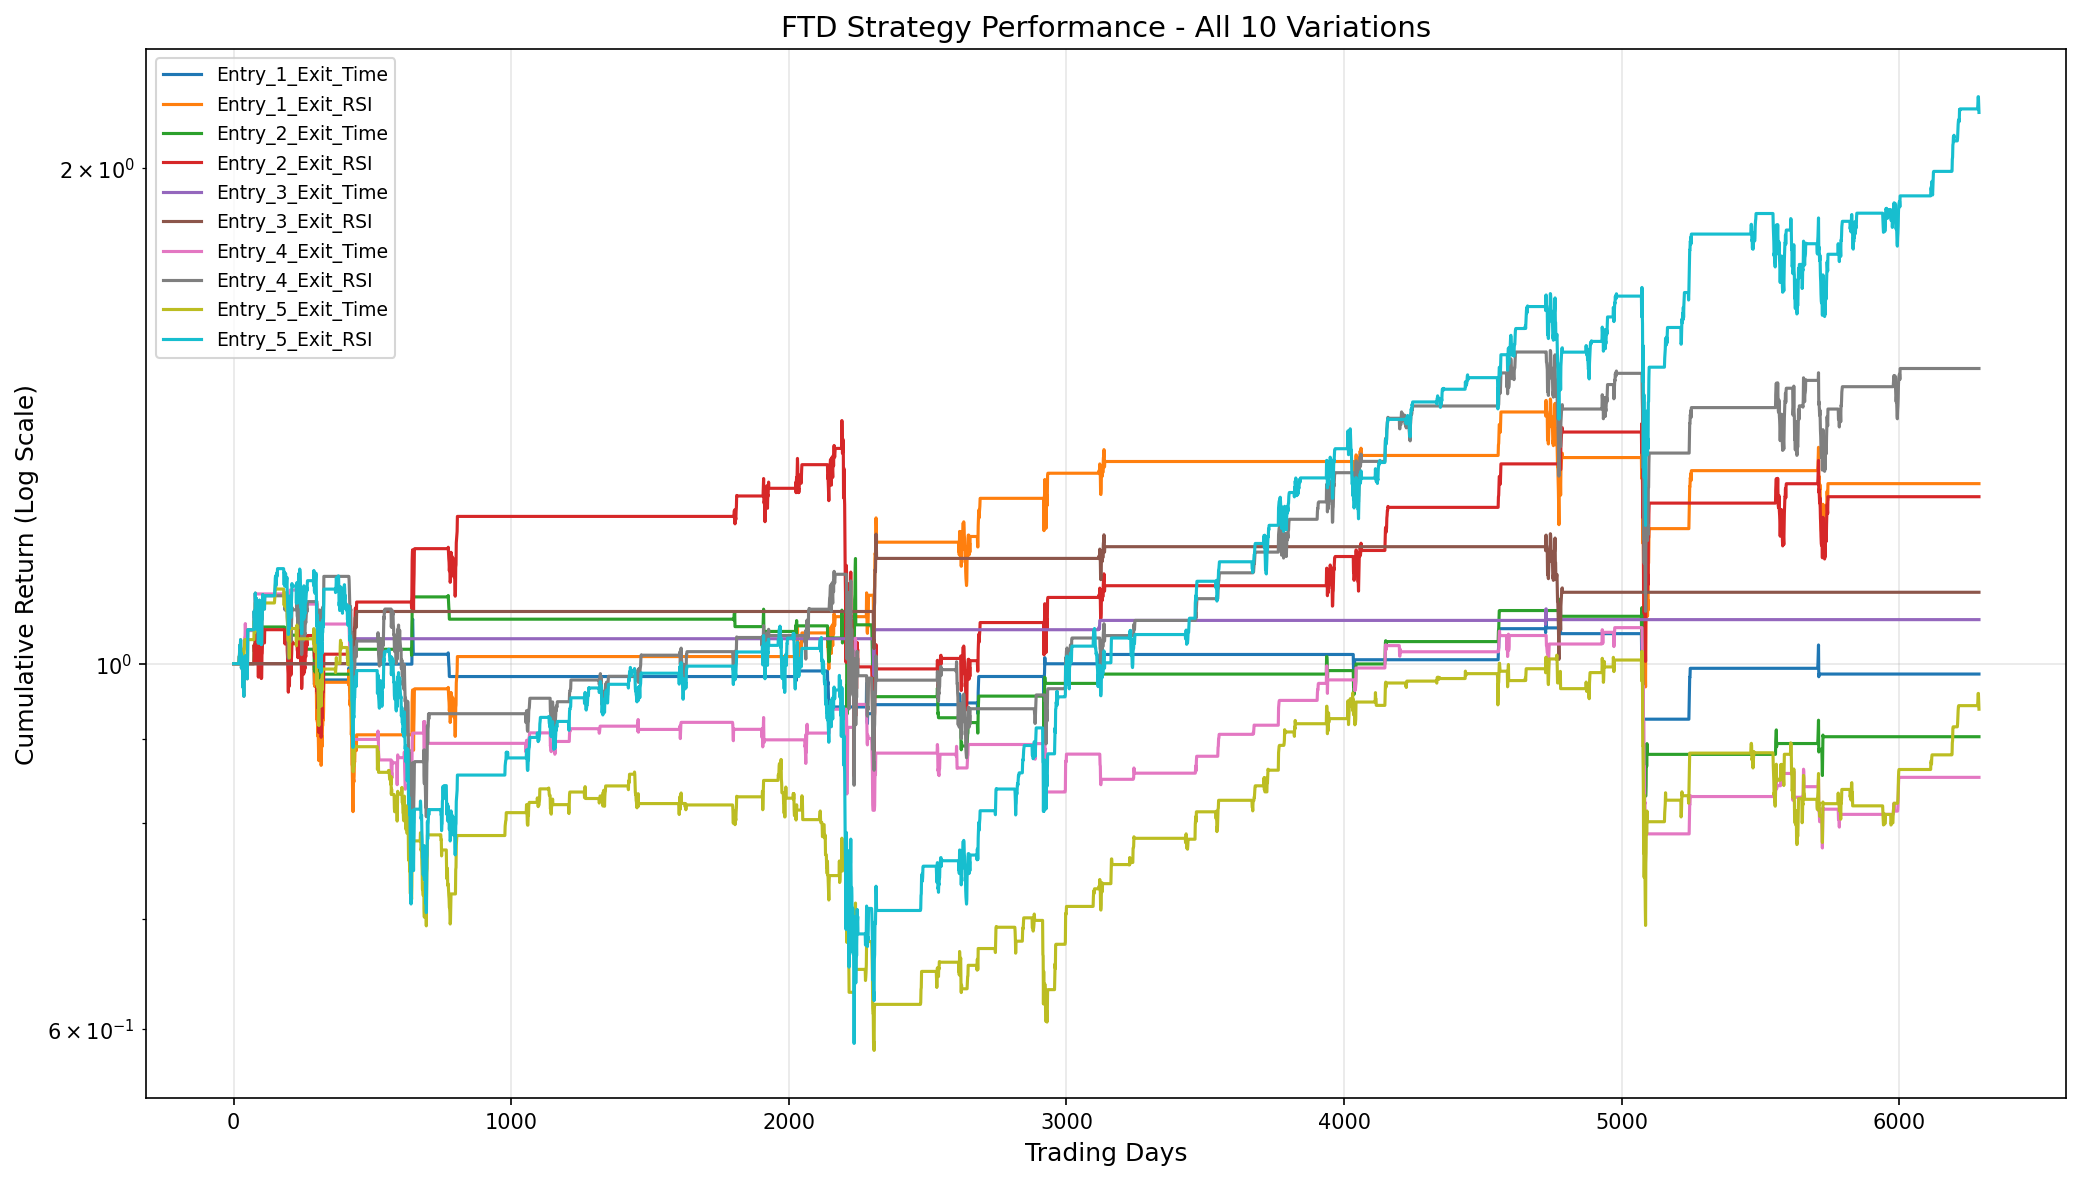
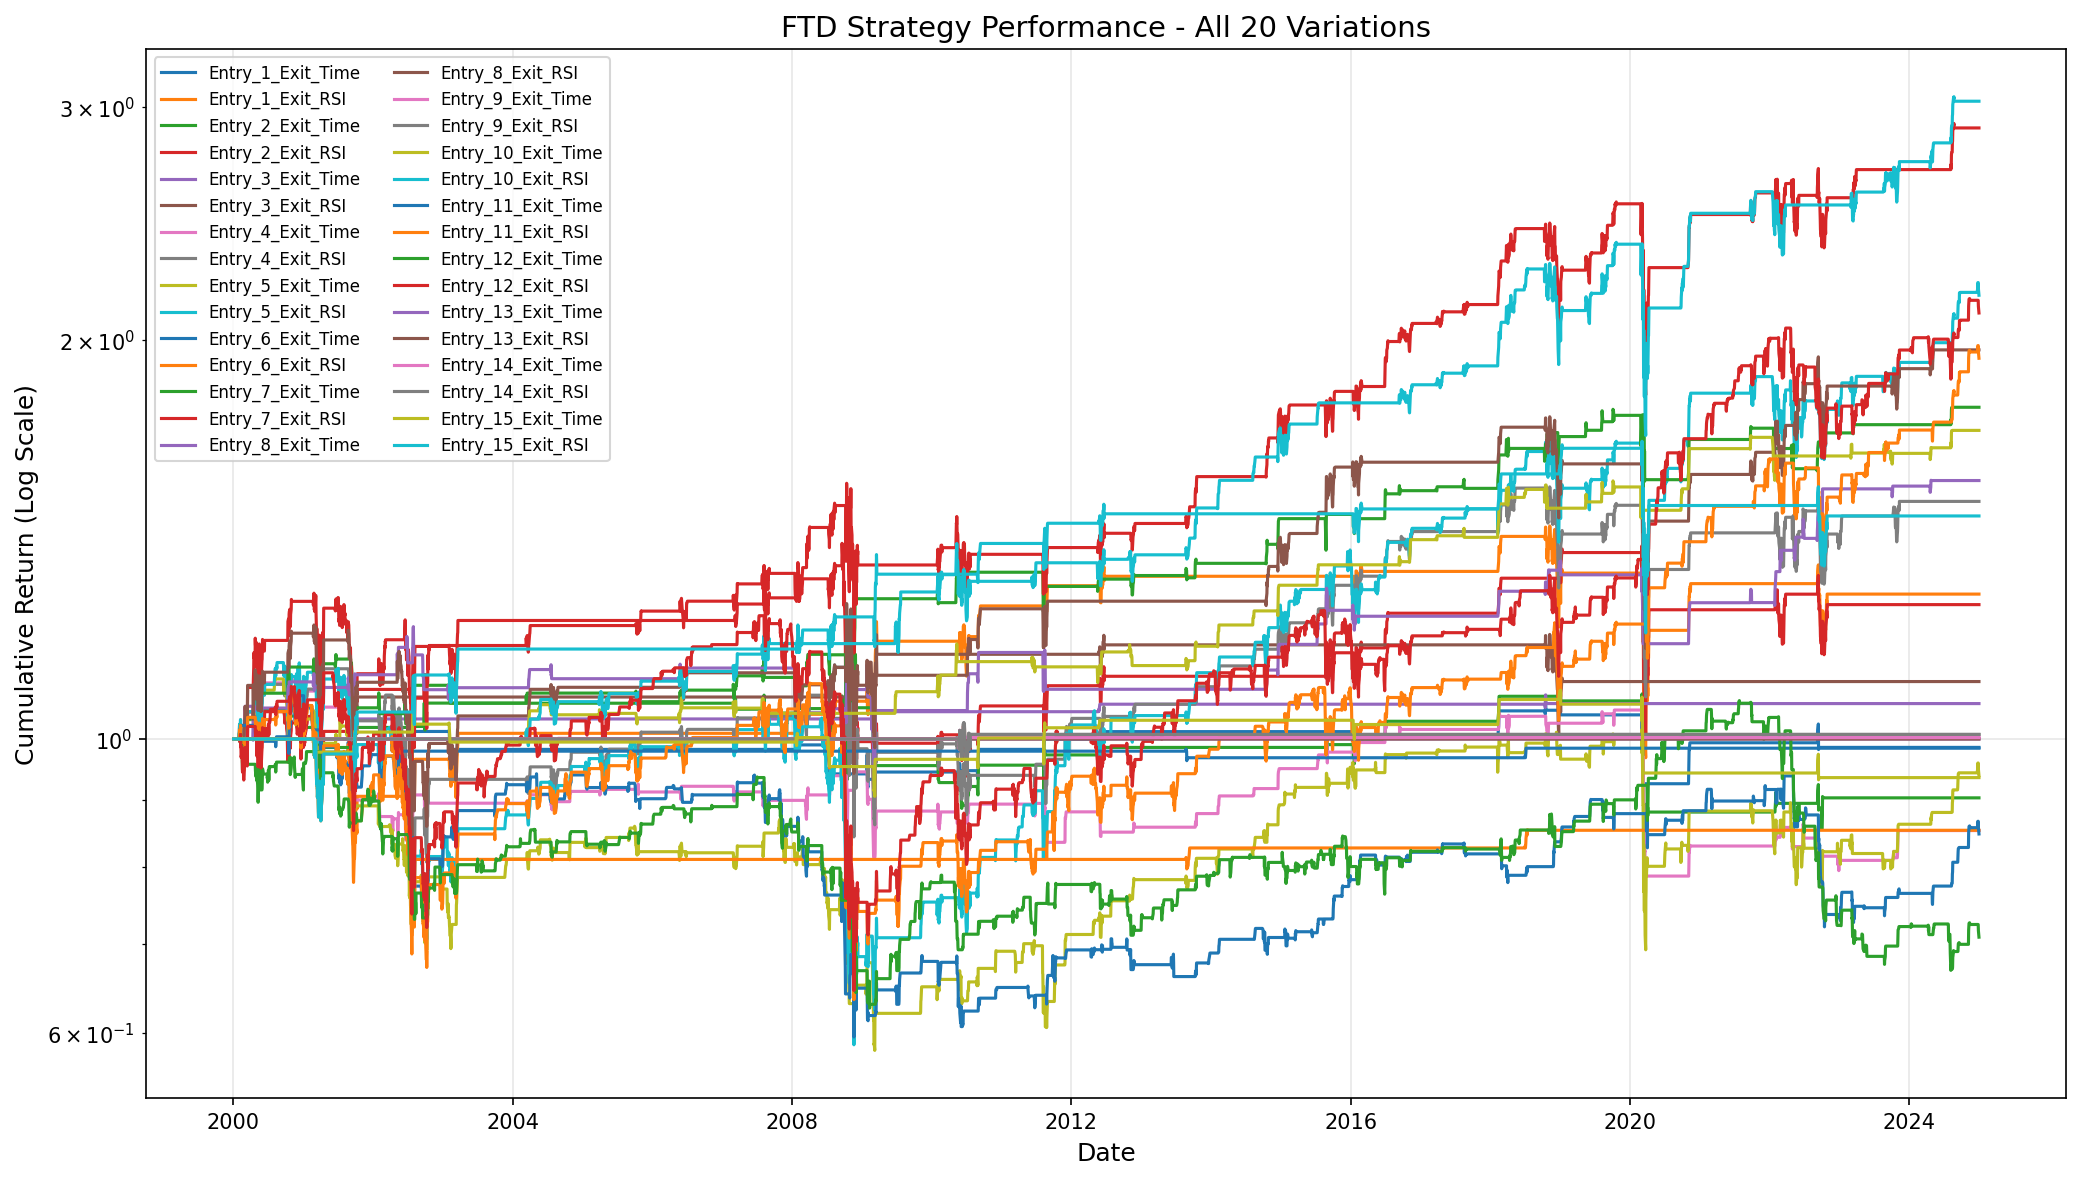
Add FTD strategy with 20 variations and Excel output
- Updated plot to use date x-axis instead of trade count
- Added 10 additional social media-based entry strategies:
  * MA Crossover, Volume Spike, Gap Up, Support Bounce
  * Trend Confirmation, Momentum, Pullback, Swing High Break
  * VWAP Support, Wide Bar
- Total 20 strategy combinations tested on SPY (2000-2024)
- Best performers: Entry_10_Exit_RSI (202.91%, PF 6.41) and Entry_7_Exit_RSI (189.16%, PF 3.16)
- Saved performance table to ftd_table.xlsx with Perf and Rules sheets
- Formatted Excel with styled headers and borders

diff --git a/ftd_strategy.py b/ftd_strategy.py
@@ -4,7 +4,7 @@ FTD (Follow-Through Day) Trading Strategy
 This strategy identifies oversold conditions using RSI, then identifies subsequent
 FTD using high IBS (Intra-Bar Strength) value and high daily return (>1%).
 
-5 Entry Variations:
+Original 5 Entry Variations:
 1. RSI < 30 + FTD (IBS > 0.5 AND daily return > 1%)
 2. RSI < 35 + FTD (IBS > 0.7 AND daily return > 1.5%)
 3. RSI < 25 + FTD (IBS > 0.5 AND daily return > 1%)
@@ -15,7 +15,19 @@ FTD using high IBS (Intra-Bar Strength) value and high daily return (>1%).
 1. Time-based: Hold for N bars (e.g., 5 bars)
 2. RSI threshold: Exit when RSI > 65
 
-Total: 10 strategy variations (5 entries x 2 exits)
+Additional 10 Social Media Strategies (paired with FTD concept):
+6. MA Crossover: Price crosses above 50-day MA after oversold RSI
+7. Volume Spike: Volume > 1.5x average after RSI oversold
+8. Gap Up: Gap up > 0.5% after RSI oversold
+9. Support Bounce: Price bounces from daily VWAP after oversold
+10. Trend Confirmation: Price above 200-day MA after RSI oversold
+11. Momentum: RSI crosses above 40 with strongIBS (>0.7)
+12. Pullback: Price retraces to 20-day MA after FTD
+13. Swing High Break: Break of prior swing high after oversold
+14. VWAP Support: Price bounces from VWAP after oversold
+15. Wide Bar: Large green bar (>1.5%) after RSI oversold
+
+Total: 20 strategy variations
 """
 
 import pandas as pd
@@ -56,6 +68,39 @@ def calculate_daily_return(df):
     return df['Close'].pct_change()
 
 
+def calculate_indicators(df):
+    """Calculate all additional technical indicators"""
+    # Moving averages
+    df['MA_20'] = df['Close'].rolling(window=20).mean()
+    df['MA_50'] = df['Close'].rolling(window=50).mean()
+    df['MA_200'] = df['Close'].rolling(window=200).mean()
+    
+    # VWAP (approximate using typical price - cumulative calculation)
+    df['Typical_Price'] = (df['High'] + df['Low'] + df['Close']) / 3
+    df['Cum_Volume'] = df['Volume'].cumsum()
+    df['Cum_TP_Volume'] = (df['Typical_Price'] * df['Volume']).cumsum()
+    df['VWAP'] = df['Cum_TP_Volume'] / df['Cum_Volume']
+    
+    # Volume
+    df['Volume_MA'] = df['Volume'].rolling(window=20).mean()
+    df['Volume_Ratio'] = df['Volume'] / df['Volume_MA']
+    
+    # Gap calculation
+    df['Gap'] = (df['Open'] - df['Close'].shift(1)) / df['Close'].shift(1)
+    
+    # Prior day data for swing high/low
+    df['Prior_High'] = df['High'].shift(1)
+    df['Prior_Low'] = df['Low'].shift(1)
+    
+    # Swing high (last 5 days)
+    df['Swing_High'] = df['High'].rolling(window=5).max().shift(1)
+    
+    # Prior RSI
+    df['Prior_RSI'] = df['RSI'].shift(1)
+    
+    return df
+
+
 def download_spy_data():
     """Download SPY data from Yahoo Finance"""
     print(f"Downloading {TICKER} data...")
@@ -66,13 +111,13 @@ def download_spy_data():
     if isinstance(df.columns, pd.MultiIndex):
         df.columns = [col[0] if col[1] == '' or col[1] == TICKER else col[0] for col in df.columns]
     
-    # Calculate indicators
+    # Calculate base indicators
     df['RSI'] = calculate_rsi(df['Close'])
     df['IBS'] = calculate_ibs(df)
     df['Daily_Return'] = calculate_daily_return(df)
     
-    # Calculate prior RSI (for crossover detection)
-    df['Prior_RSI'] = df['RSI'].shift(1)
+    # Calculate additional indicators
+    df = calculate_indicators(df)
     
     print(f"Downloaded {len(df)} trading days of data")
     return df
@@ -114,6 +159,82 @@ def entry_condition_5(df):
     return oversold & ftd
 
 
+# Additional Entry conditions (6-15) - Social Media strategies
+def entry_condition_6(df):
+    """Entry 6: MA Crossover - Price crosses above 50-day MA after oversold RSI"""
+    rsi_oversold = df['RSI'] < 30
+    ma_cross = df['Close'] > df['MA_50']
+    prior_below = df['Close'].shift(1) <= df['MA_50'].shift(1)
+    return rsi_oversold & ma_cross & prior_below
+
+
+def entry_condition_7(df):
+    """Entry 7: Volume Spike - Volume > 1.5x average after RSI oversold"""
+    rsi_oversold = df['RSI'] < 30
+    volume_spike = df['Volume_Ratio'] > 1.5
+    return rsi_oversold & volume_spike
+
+
+def entry_condition_8(df):
+    """Entry 8: Gap Up - Gap up > 0.5% after RSI oversold"""
+    rsi_oversold = df['RSI'] < 30
+    gap_up = df['Gap'] > 0.005
+    return rsi_oversold & gap_up
+
+
+def entry_condition_9(df):
+    """Entry 9: Support Bounce - Price bounces from daily VWAP after oversold"""
+    rsi_oversold = df['RSI'] < 30
+    # Close is above VWAP today but was below yesterday
+    above_vwap = df['Close'] > df['VWAP']
+    below_yesterday = df['Close'].shift(1) <= df['VWAP'].shift(1)
+    return rsi_oversold & above_vwap & below_yesterday
+
+
+def entry_condition_10(df):
+    """Entry 10: Trend Confirmation - Price above 200-day MA after RSI oversold"""
+    rsi_oversold = df['RSI'] < 30
+    above_ma200 = df['Close'] > df['MA_200']
+    return rsi_oversold & above_ma200
+
+
+def entry_condition_11(df):
+    """Entry 11: Momentum - RSI crosses above 40 with strong IBS (>0.7)"""
+    rsi_cross = (df['Prior_RSI'] <= 40) & (df['RSI'] > 40)
+    strong_ibs = df['IBS'] > 0.7
+    return rsi_cross & strong_ibs
+
+
+def entry_condition_12(df):
+    """Entry 12: Pullback - Price retraces to 20-day MA after FTD"""
+    ftd = (df['IBS'] > 0.5) & (df['Daily_Return'] > 0.01)
+    # Price is at or near 20-day MA (within 1%)
+    at_ma20 = abs(df['Close'] - df['MA_20']) / df['MA_20'] < 0.01
+    return ftd & at_ma20
+
+
+def entry_condition_13(df):
+    """Entry 13: Swing High Break - Break of prior swing high after oversold"""
+    rsi_oversold = df['RSI'] < 30
+    break_swing = df['Close'] > df['Swing_High']
+    return rsi_oversold & break_swing
+
+
+def entry_condition_14(df):
+    """Entry 14: VWAP Support - Price bounces from VWAP after oversold"""
+    rsi_oversold = df['RSI'] < 30
+    # Price is above VWAP today but was below yesterday (bounce)
+    bounce = (df['Close'] > df['VWAP']) & (df['Close'].shift(1) <= df['VWAP'].shift(1))
+    return rsi_oversold & bounce
+
+
+def entry_condition_15(df):
+    """Entry 15: Wide Bar - Large green bar (>1.5%) after RSI oversold"""
+    rsi_oversold = df['RSI'] < 30
+    wide_bar = df['Daily_Return'] > 0.015
+    return rsi_oversold & wide_bar
+
+
 # Exit condition functions
 def exit_condition_time(df, hold_bars=5):
     """Exit: Hold for N bars"""
@@ -133,6 +254,16 @@ ENTRY_CONDITIONS = {
     'Entry_3': entry_condition_3,
     'Entry_4': entry_condition_4,
     'Entry_5': entry_condition_5,
+    'Entry_6': entry_condition_6,
+    'Entry_7': entry_condition_7,
+    'Entry_8': entry_condition_8,
+    'Entry_9': entry_condition_9,
+    'Entry_10': entry_condition_10,
+    'Entry_11': entry_condition_11,
+    'Entry_12': entry_condition_12,
+    'Entry_13': entry_condition_13,
+    'Entry_14': entry_condition_14,
+    'Entry_15': entry_condition_15,
 }
 
 
@@ -280,12 +411,14 @@ def calculate_metrics(df_trades, df_full):
 
 
 def run_all_strategies(df):
-    """Run all 10 strategy combinations"""
+    """Run all 20 strategy combinations (15 entries x 2 exits)"""
     results = []
     equity_curves = {}
+    dates = df['Date']  # Store dates for plotting
     
     exit_names = ['Exit_Time', 'Exit_RSI']
-    entry_names = ['Entry_1', 'Entry_2', 'Entry_3', 'Entry_4', 'Entry_5']
+    # First 5 are original FTD strategies, 6-15 are social media strategies
+    entry_names = [f'Entry_{i}' for i in range(1, 16)]
     
     for entry_name in entry_names:
         for exit_name in exit_names:
@@ -297,7 +430,11 @@ def run_all_strategies(df):
             metrics['Strategy'] = strategy_name
             
             results.append(metrics)
-            equity_curves[strategy_name] = df_result['Cumulative_Strategy_Return']
+            # Store equity curve with dates
+            equity_curves[strategy_name] = pd.Series(
+                df_result['Cumulative_Strategy_Return'].values, 
+                index=dates
+            )
             
             print(f"  Trades: {metrics['Num_Trades']}, Return: {metrics['Total_Return']:.2f}%, PF: {metrics['Profit_Factor']:.2f}")
     
@@ -319,20 +456,20 @@ def create_performance_table(results):
 
 
 def plot_performance(equity_curves, save_path='ftd_performance.png'):
-    """Create performance plot with log scale"""
+    """Create performance plot with log scale and date x-axis"""
     plt.figure(figsize=(14, 8))
     
     # Use log scale for y-axis
     plt.yscale('log')
     
-    # Plot each strategy
+    # Plot each strategy with dates on x-axis
     for name, curve in equity_curves.items():
-        plt.plot(curve, label=name, linewidth=1.5)
+        plt.plot(curve.index, curve.values, label=name, linewidth=1.5)
     
-    plt.xlabel('Trading Days', fontsize=12)
+    plt.xlabel('Date', fontsize=12)
     plt.ylabel('Cumulative Return (Log Scale)', fontsize=12)
-    plt.title('FTD Strategy Performance - All 10 Variations', fontsize=14)
-    plt.legend(loc='upper left', fontsize=9)
+    plt.title('FTD Strategy Performance - All 20 Variations', fontsize=14)
+    plt.legend(loc='upper left', fontsize=8, ncol=2)
     plt.grid(True, alpha=0.3)
     plt.tight_layout()
     
@@ -340,6 +477,100 @@ def plot_performance(equity_curves, save_path='ftd_performance.png'):
     plt.close()
     
     print(f"Performance plot saved to {save_path}")
+
+
+def create_rules_table():
+    """Create a table of all strategy rules"""
+    rules = [
+        # Original FTD strategies (1-5)
+        {'Strategy': 'Entry_1', 'Description': 'RSI < 30 (oversold) + FTD (IBS > 0.5 AND daily return > 1%)', 'Category': 'Original FTD'},
+        {'Strategy': 'Entry_2', 'Description': 'RSI < 35 + FTD (IBS > 0.7 AND daily return > 1.5%)', 'Category': 'Original FTD'},
+        {'Strategy': 'Entry_3', 'Description': 'RSI < 25 (more oversold) + FTD (IBS > 0.5 AND daily return > 1%)', 'Category': 'Original FTD'},
+        {'Strategy': 'Entry_4', 'Description': 'RSI crosses above 30 (RSI reversal) + FTD', 'Category': 'Original FTD'},
+        {'Strategy': 'Entry_5', 'Description': 'RSI < 40 + FTD (IBS > 0.5, any positive return)', 'Category': 'Original FTD'},
+        # Social media strategies (6-15)
+        {'Strategy': 'Entry_6', 'Description': 'MA Crossover - Price crosses above 50-day MA after oversold RSI', 'Category': 'Social Media'},
+        {'Strategy': 'Entry_7', 'Description': 'Volume Spike - Volume > 1.5x average after RSI oversold', 'Category': 'Social Media'},
+        {'Strategy': 'Entry_8', 'Description': 'Gap Up - Gap up > 0.5% after RSI oversold', 'Category': 'Social Media'},
+        {'Strategy': 'Entry_9', 'Description': 'Support Bounce - Price bounces from daily VWAP after oversold', 'Category': 'Social Media'},
+        {'Strategy': 'Entry_10', 'Description': 'Trend Confirmation - Price above 200-day MA after RSI oversold', 'Category': 'Social Media'},
+        {'Strategy': 'Entry_11', 'Description': 'Momentum - RSI crosses above 40 with strong IBS (>0.7)', 'Category': 'Social Media'},
+        {'Strategy': 'Entry_12', 'Description': 'Pullback - Price retraces to 20-day MA after FTD', 'Category': 'Social Media'},
+        {'Strategy': 'Entry_13', 'Description': 'Swing High Break - Break of prior swing high after oversold', 'Category': 'Social Media'},
+        {'Strategy': 'Entry_14', 'Description': 'VWAP Support - Price bounces from VWAP after oversold', 'Category': 'Social Media'},
+        {'Strategy': 'Entry_15', 'Description': 'Wide Bar - Large green bar (>1.5%) after RSI oversold', 'Category': 'Social Media'},
+    ]
+    
+    # Add exit rules
+    exit_rules = [
+        {'Strategy': 'Exit_Time', 'Description': 'Hold for 5 bars then exit', 'Category': 'Exit'},
+        {'Strategy': 'Exit_RSI', 'Description': 'Exit when RSI > 65', 'Category': 'Exit'},
+    ]
+    
+    return pd.DataFrame(rules), pd.DataFrame(exit_rules)
+
+
+def save_to_excel(df_results, df_rules, exit_rules, filename='ftd_table.xlsx'):
+    """Save performance and rules to Excel with formatting"""
+    with pd.ExcelWriter(filename, engine='openpyxl') as writer:
+        # Write performance sheet
+        df_results.to_excel(writer, sheet_name='Perf', index=False)
+        
+        # Write rules sheet
+        df_rules.to_excel(writer, sheet_name='Rules', index=False)
+        
+        # Get workbook and worksheets
+        workbook = writer.book
+        perf_sheet = writer.sheets['Perf']
+        rules_sheet = writer.sheets['Rules']
+        
+        # Format Performance sheet
+        from openpyxl.styles import Font, Alignment, PatternFill, Border, Side
+        
+        # Header styling
+        header_font = Font(bold=True, color='FFFFFF')
+        header_fill = PatternFill(start_color='4472C4', end_color='4472C4', fill_type='solid')
+        header_alignment = Alignment(horizontal='center', vertical='center')
+        
+        for cell in perf_sheet[1]:
+            cell.font = header_font
+            cell.fill = header_fill
+            cell.alignment = header_alignment
+        
+        # Adjust column widths
+        perf_sheet.column_dimensions['A'].width = 25  # Strategy
+        perf_sheet.column_dimensions['B'].width = 12  # Num_Trades
+        perf_sheet.column_dimensions['C'].width = 14  # Total_Return
+        perf_sheet.column_dimensions['D'].width = 14  # Profit_Factor
+        perf_sheet.column_dimensions['E'].width = 12  # Win_Rate
+        
+        # Format Rules sheet
+        for cell in rules_sheet[1]:
+            cell.font = header_font
+            cell.fill = header_fill
+            cell.alignment = header_alignment
+        
+        rules_sheet.column_dimensions['A'].width = 15  # Strategy
+        rules_sheet.column_dimensions['B'].width = 70  # Description
+        rules_sheet.column_dimensions['C'].width = 15  # Category
+        
+        # Add borders to cells
+        thin_border = Border(
+            left=Side(style='thin'),
+            right=Side(style='thin'),
+            top=Side(style='thin'),
+            bottom=Side(style='thin')
+        )
+        
+        for row in perf_sheet.iter_rows(min_row=2, max_row=perf_sheet.max_row, min_col=1, max_col=5):
+            for cell in row:
+                cell.border = thin_border
+        
+        for row in rules_sheet.iter_rows(min_row=2, max_row=rules_sheet.max_row, min_col=1, max_col=3):
+            for cell in row:
+                cell.border = thin_border
+    
+    print(f"Excel file saved to {filename}")
 
 
 def main():
@@ -360,9 +591,11 @@ def main():
     print("=" * 60)
     print(df_results.to_string(index=False))
     
-    # Save performance table to CSV
-    df_results.to_csv('ftd_performance_table.csv', index=False)
-    print("\nPerformance table saved to ftd_performance_table.csv")
+    # Create rules tables
+    df_rules, exit_rules = create_rules_table()
+    
+    # Save to Excel
+    save_to_excel(df_results, df_rules, exit_rules, 'ftd_table.xlsx')
     
     # Create performance plot
     plot_performance(equity_curves, 'ftd_performance.png')
